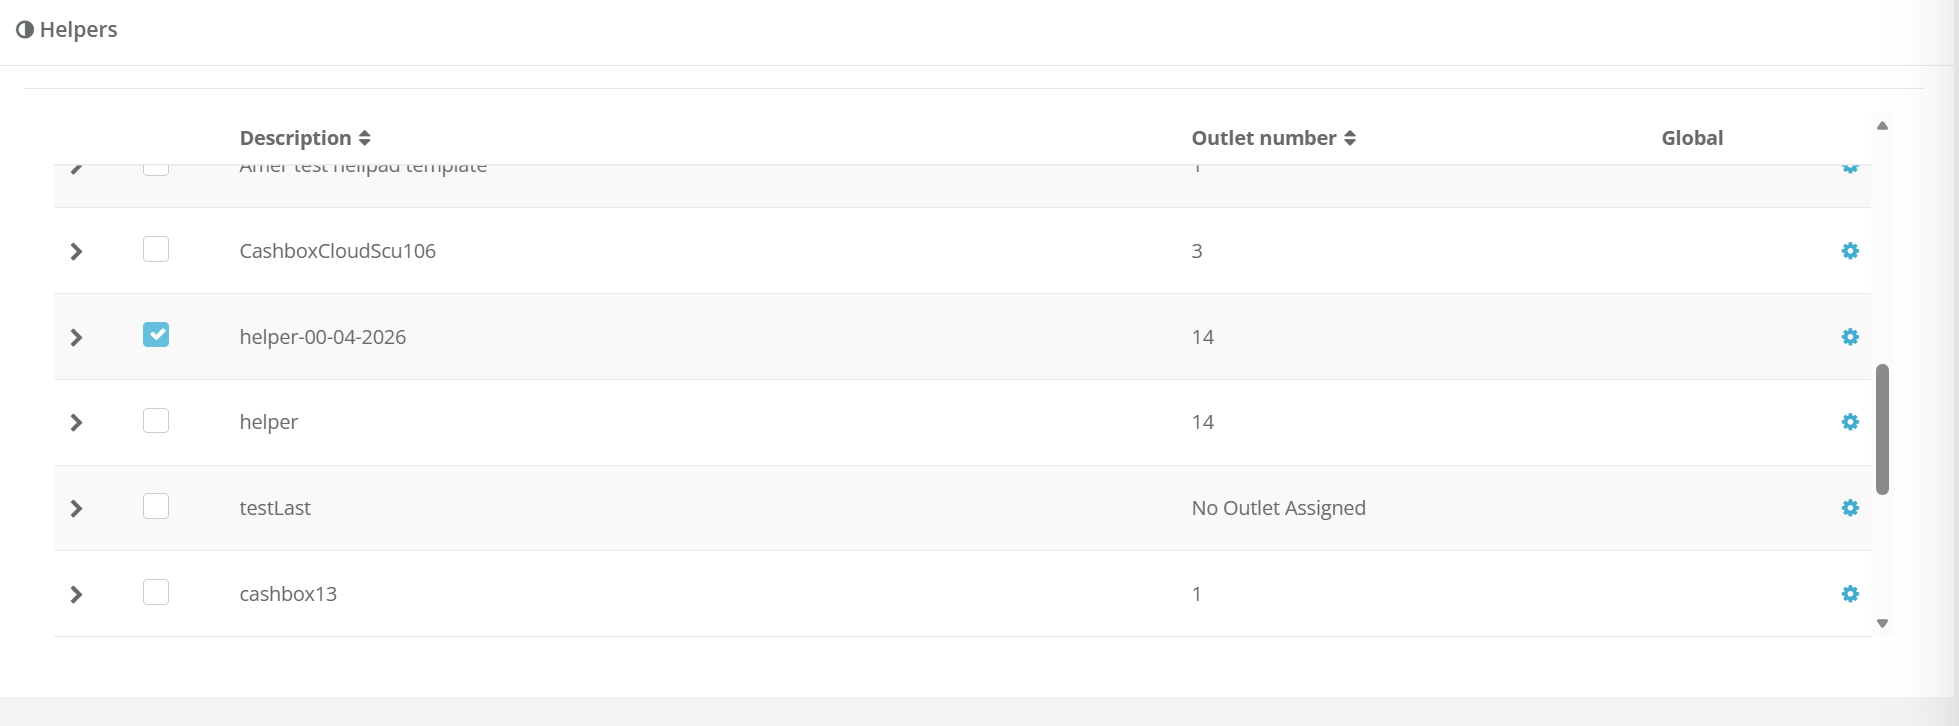
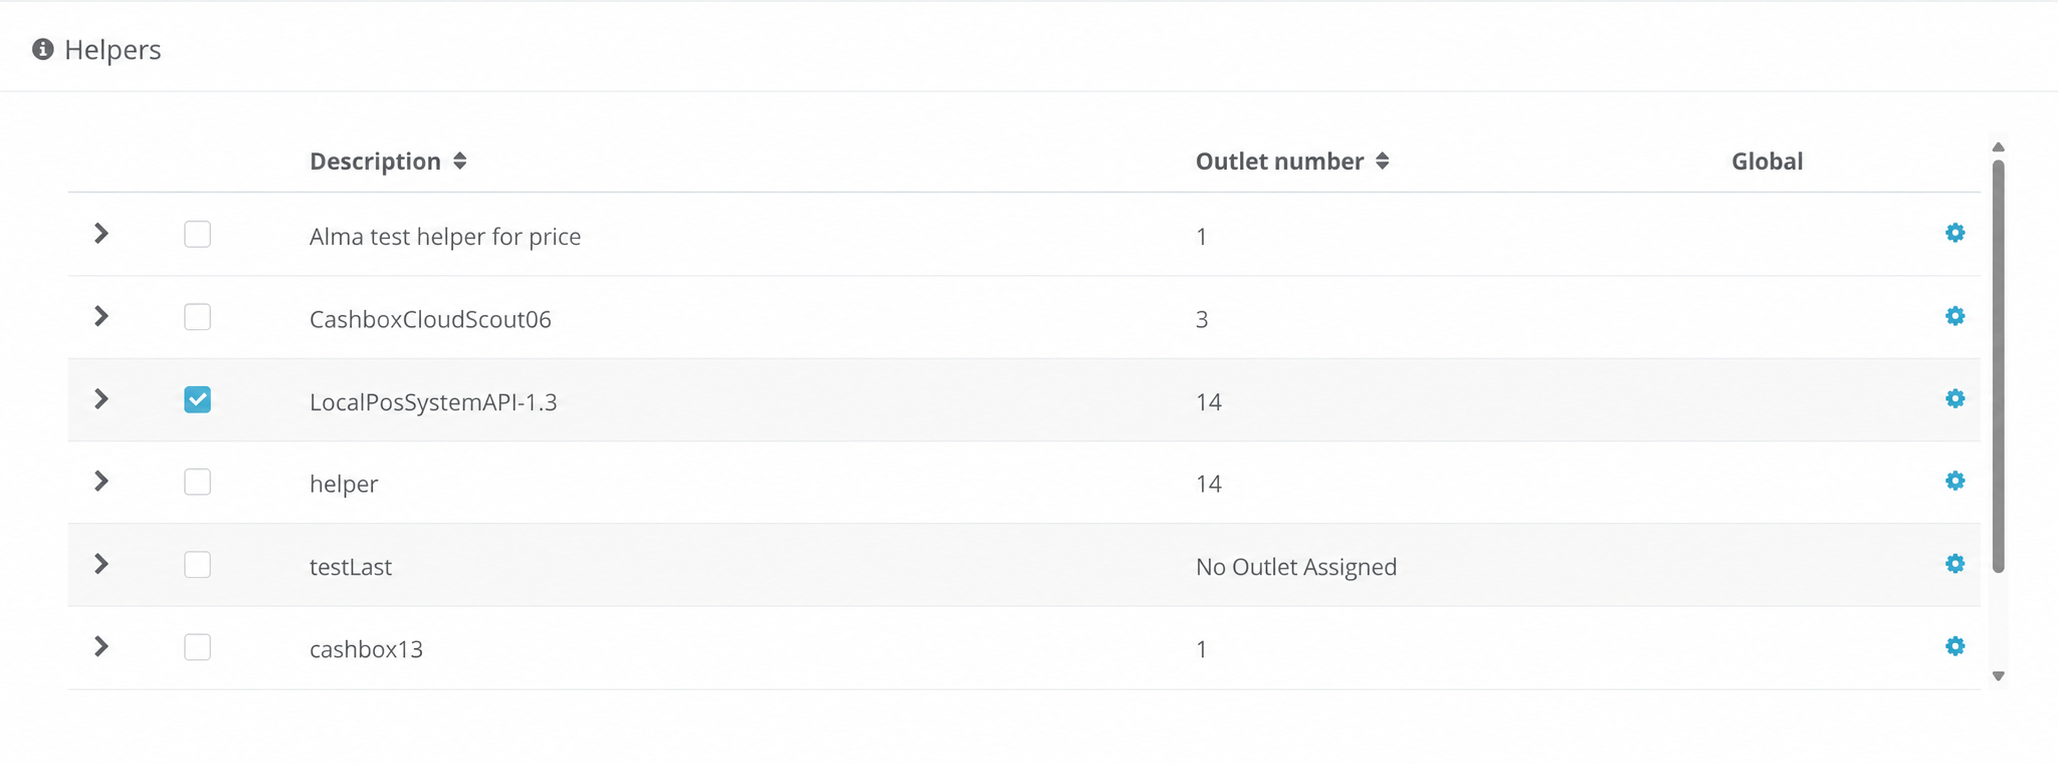
update

diff --git a/posdealers/technical-operations/middleware/localpossystemapi-helper-1-2.md b/posdealers/technical-operations/middleware/localpossystemapi-helper-1-2.md
@@ -110,7 +110,7 @@ Once saved, a **success** notification will appear confirming that the Helper ha
 ## Add a LocalPosSystemApi Helper
 
 To add the LocalPosSystemApi Helper, navigate to `Configuration` / `Helper` in the fiskaltrust Portal and follow the steps below. 
-Note that the following figures and steps are exemplary.
+Note that the following figures and steps are exemplary. At this point the Helper is only created as a standalone resource. It will be assigned to the new 1.3 CashBox later on.
 
 ![possystemapihelper1.png](images/possystemapihelper1.png)
 
@@ -127,6 +127,8 @@ Note that the following figures and steps are exemplary.
 Once saved, a **success** notification will appear confirming that the Helper has been created. The configuration window for the new Helper will then open automatically, allowing you to proceed with the setup.
 
 ## Configure the LocalPosSystemApi Helper
+
+These settings configure the Helper itself, before it is assigned to the new 1.3 CashBox, so that it points to the queue of the existing 1.2 CashBox.
 
 ![addcustomconfig.png](images/addcustomconfig.png)
 ![connect-helper-5.png](images/connect-helper-5.png)
